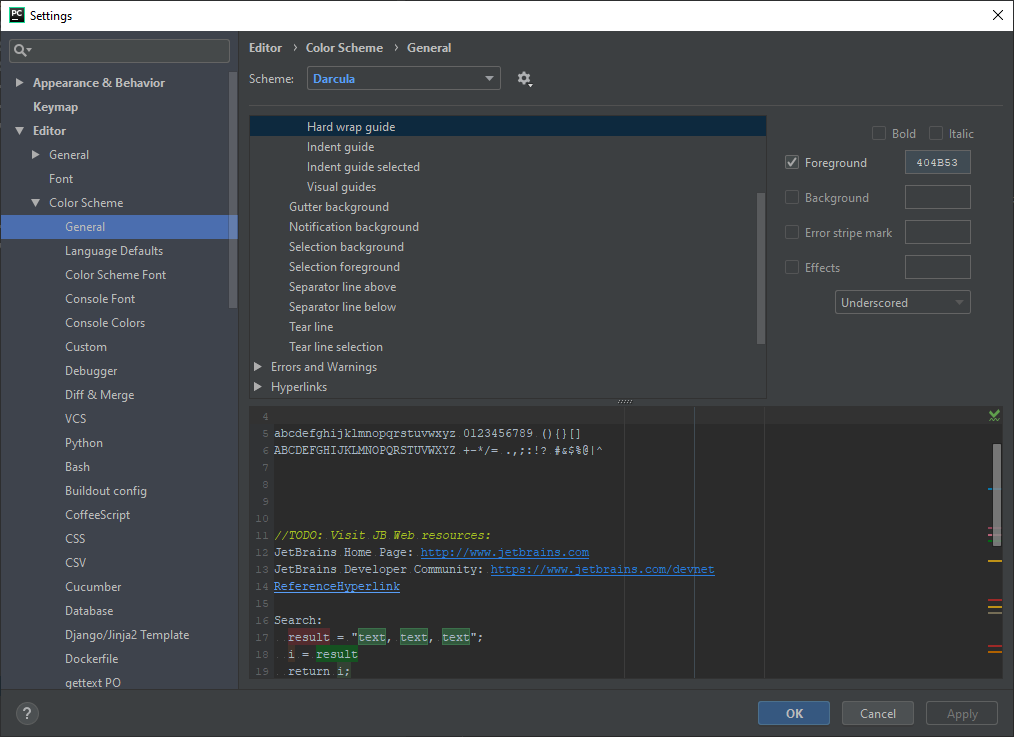
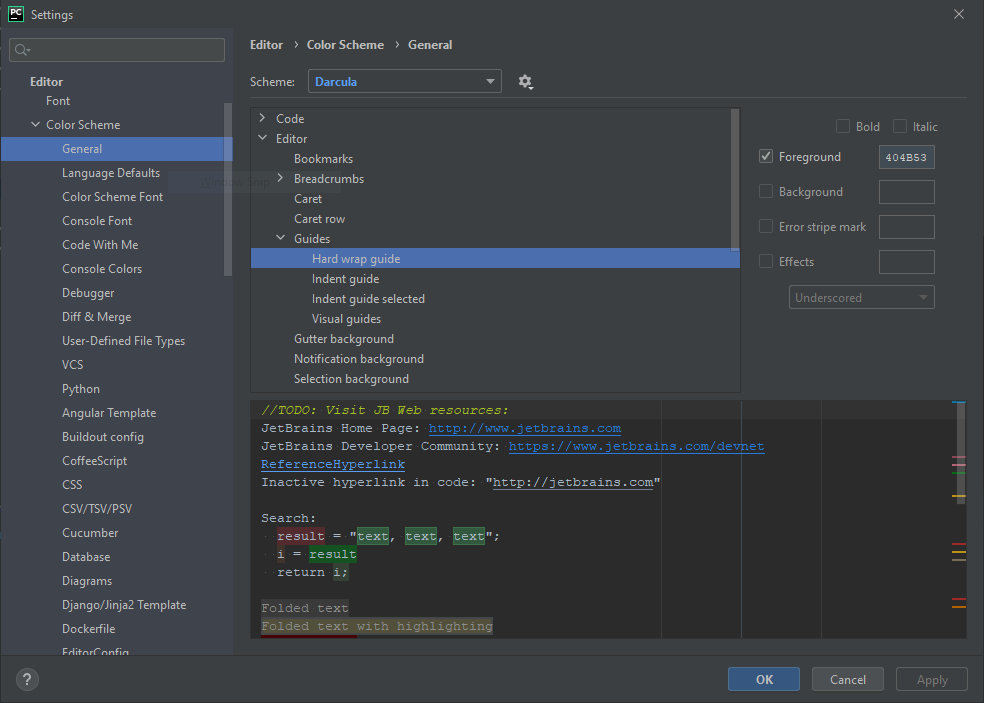
Updating PyCharm info for version 2021

diff --git a/Resources/PyCharm/NewProject.md b/Resources/PyCharm/NewProject.md
@@ -24,7 +24,7 @@ section below called __Git Workflow in PyCharm__.
 * Start a new project in PyCharm either from the splash window or from the 
 menu bar by choosing `File/New Project...`
 ![NewFolderWindow.png](images/NewFolderWindow.PNG)
-* In the Location box, replace "untitled" with the name of the folder you
+* In the Location box, replace "pythonProject" with the name of the folder you
 would like for the new project/repository to be placed.  You can also update
 the path as needed.  Make sure that "Pure Python" is selected in the left-hand
 pane.  Click "Create".
@@ -37,7 +37,7 @@ environment within this project.
 
 ### Create local `git` repository for this project
 * In the new project window, we need to activate `git`.  To do so, from the
-menu bar, choose `VCS/Import into Version Control/Create Git Repository...`  
+menu bar, choose `VCS/Create Git Repository...`  
 ![CreateGitRepositoryWindow.PNG](images/CreateGitRepositoryWindow.PNG)
 * The newly created project folder should already be selected.  Click "Ok".
 * The bottom right portion of the PyCharm window should now show that `git`
@@ -45,9 +45,13 @@ is active and that you are on the main branch.
 ![GitMasterStatus.png](images/GitMasterStatus.PNG)
 
 ### Link to a new GitHub repository
-* In GitHub, create a new empty repository without a `README.md` file.
-* Get the GitHub repository URL for cloning.
-* In the PyCharm window, from the menu bar, select `VCS/Git/Remotes...`
+* In GitHub, create a new empty repository without a `README.md` or any other 
+  file.
+* Copy the GitHub repository URL for cloning.  Make sure the SSH version is
+selected and that your computer already has an SSH key set up.
+  ![](images/GitHubEmptyRepositoryURL.PNG)
+  
+* In the PyCharm window, from the menu bar, select `Git/Manage Remotes...`
 ![GitRemotesWindow.png](images/GitRemotesWindow.PNG)
 * Click on the "+" in the "Git Remotes" windows.  
 ![DefineRemoteWindow.png](images/DefineRemoteWindow.PNG)
@@ -55,24 +59,32 @@ is active and that you are on the main branch.
 * Click "Ok" to close the "Git Remotes" window.
 
 ### Create files in PyCharm
-* Create files in PyCharm.  As an example, lets make a `requirements.txt` file.
+* Create files in PyCharm.  As an example, lets make a `README.md` file.
 * In the Projects tab on the left, select the project:    
 ![ProjectSelect.png](images/ProjectSelect.PNG)
-* From the menu bar, select "File/New..." and then select "File" from the 
-pop-up list.  Alternatively, you can right click on the project name in the
-project tab and then select "New/File" from the pop-up menu.
-* Enter the name of the file into the "New File" window that appears and click
-"Ok".
+* From the menu bar, select "File/New..." and then select the appropriate file
+  type from the pop-up list.  Alternatively, you can right click on the project
+  name in the project tab and then select "New" and the appropriate  file type 
+  from the pop-up menu.
+  - If you are creating a Python code module, select "Python File".
+  - Select other types if creating a specific type of file
+  - Select "File" for creating markdown or generic text files.
+* Enter the name of the file into the "New File" pop-up that appears and hit
+"Enter" on the keyboard.
+    - Include an appropriate file extensions (i.e., .txt, *.md) if you are
+  creating a generic file.
 * The following window will appear:  
 ![AddFileToGitWindow.png](images/AddFileToGitWindow.PNG)
-* Select "Yes" as we do want to add it to our repository.
-* __NOTE__:  There will be other times when you are using PyCharm and this
-window will pop-up:  ![](images/VcsCommitWindow.PNG) 
+* Select "Add" as we do want to add it to our repository.
+* __NOTE__:  There may be other times when you are using PyCharm and a window
+similar to this one will pop-up:  ![](images/VcsCommitWindow.PNG) 
   
-  asking if you want to commit certain files to your
+  It may have a different format and the buttons may be labeled "Add" and 
+  "Cancel".  This window is saying that some configurations files for PyCharm
+  have changed and whether you want to add these files to your
   repository.  Often, these files will be PyCharm settings files such as `vcs`
   or spelling dictionary files.  If you don't recognize the filename, it is 
-  best to say "No" and not add it to the repository.
+  best to say "No" or "Cancel" and not add it to the repository.
 * The newly added file will be shown in green.  This means it has been added
 to the repository, but not yet committed to it.  
 ![GreenFileName.png](images/GreenFileName.PNG)
@@ -80,7 +92,7 @@ to the repository, but not yet committed to it.
 to your local computer.  There is no need to actively save the file.
 ### Commit changes to repository
 * Once editing is complete, the file may be committed to the repository from
-the menu bar by selecting "VCS/Commit...".  
+the menu bar by selecting "Git/Commit...".  
 ![](images/CommitChangesWindow.PNG)
 The "Commit Changes" window will show all files that have been modified since
 the last commit and allow you to commit all of these changes at once.  For this
@@ -90,15 +102,14 @@ Commit Message box and then click "Commit".
 
 ### Push Changes to GitHub
 * To push your local repository changes to GitHub, from the menu bar, select
-"VCS/Git/Push..."  
+"Git/Push..."  
 ![PushCommitsWindow.png](images/PushCommitsWindow.PNG)
 * It will show a list of commits to be pushed.  Click on "Push".
 
 ## Method 2:  Creating New Local PyCharm Project from Existing GitHub Repository
 ### Clone Repository
-* In PyCharm, from the menu bar, choose "VCS/Checkout from Version Control/Git".
-Or, if starting from the splash screen, simply choose "Checkout from Version 
-Control/Git".
+* In PyCharm, from the menu bar, choose "Git/Clone...".
+Or, if starting from the splash screen, click on the "Get from VCS" button.
 ![CloneRepositoryWindow.png](images/CloneRepositoryWindow.PNG)
 * Enter the clone repository URL obtained from the target GitHub repository
 into the "URL" text box.  A suggested name and path for the local project 
@@ -138,9 +149,12 @@ repository for this project__ above.
 repository__ above.  It is very important that the new GitHub repository you 
 create is completely empty.  If you initialize it with a README.md, the push 
 of your local repository to GitHub will fail.
-* Next, in PyCharm, you will need to add the files you want to put into the repository.
+* Next, in PyCharm, you will need to add the files you want to put into the 
+  repository.
 Untracked files will be shown with red names.  Select a file that you want
-to add in the Projects tab and, from the menu bar, select "VCS/Git/Add".
+to add in the Projects tab and, from the menu bar, select 
+  "Git/Current File/Add".  Or, you can right click on the filename and select
+  "Git/Add" from the context menu.  
 * Do this for all of the files you wish to add to the repository.  Their 
 filenames should now be green.  
 * Commit the added files to the repository following the steps above under the
@@ -154,9 +168,21 @@ __Push Changes to GitHub__ in __Method 1__.
 ## Installing Packages in Virtual Environments in PyCharm
 ### Use `requirements.txt`
 * Create or clone a `requirements.txt` file into your project.
-* PyCharm should recognize the presence of this file and ask if you want to
-install any uninstalled packages found in `requirements.txt`.  
+* Open a terminal window in the bottom pane of PyCharm.
+  ![TerminalWindow.PNG](images/TerminalWindow.PNG)
+* Ensure that your virutal environment is active in this terminal window as
+  evidenced by the virtual environment name being shown in the prompt.  If
+  it is not activated, close this terminal window by clicking on the `x` next
+  to the "Local" tab name, and then opening a new terminal window.  
+* Enter "pip install -r requirements.txt" in the terminal command line.
+  
+#### Alternate Method (but see warning below about `pytest` not installing with this method)
+* When creating a code file, PyCharm should recognize the presence of the
+  requirements.txt file and ask if you want to
+install any uninstalled packages found in `requirements.txt` as shown in this
+  screenshot:
 ![PackageInstallPrompt.png](images/PackageInstallPrompt.PNG)
+
 * Click on "Install requirements" and then click on "Ok" in the window that
 opens.
 * If PyCharm does not automatically recognize the `requirements.txt` file,
@@ -165,6 +191,11 @@ Preferences for macOS) window and select "Python Integrated Tools" under the
 Tools heading in the left-hand pane.  
 ![SettingsPythonIntegTools.png](images/SettingsPythonIntegTools.PNG)
 *  Enter `requirements.txt` into the "Package requirements file" box.
+
+* __IMPORTANT NOTE__: Some of the more recent versions of PyCharm do not
+  install `pytest` or `pytest-pycodestyle` when using this method, even though
+  they are included in the `requirements.txt` file.  You would then need to
+  manually install them.
 
 ### Install Single Packages
 * Although not recommended, if you prefer to install a single package and not
@@ -181,8 +212,9 @@ Once your local PyCharm project and `git` repository are set up and linked to
 GitHub per the instructions above, here is the suggested `git` workflow in
 PyCharm.
 * In PyCharm, making sure that the `main` branch is active, make a new
-feature branch.  From the menu bar, select "VCS/Git/Branches..." and then
-select "+ New Branch" from the pop-up list.  
+  feature branch.  From the menu bar, select "Git/New Branch...", or click on 
+  the branch name in the lower right status bar of the PyCharm window and 
+  select "+ New Branch" from the pop-up list.  
 ![CreateNewBranchWindow.png](images/CreateNewBranchWindow.PNG)
 * Enter the name of your new branch and click "Ok".  It will now be shown as
 the active branch in the status bar in the lower right corner of the PyCharm
@@ -203,13 +235,15 @@ branch.
 * In GitHub, open a Pull Request to merge the newly pushed branch into the
 `main` branch and confirm the merge once all automated tests have passed.
 * Back in PyCharm, checkout the `main` branch by selecting 
-"VCS/Git/Branches..." from the menu bar, and then select `main` from the 
-pop-up list and "Checkout" from the sublist that opens.  Verify that `main`
+"Git/Branches..." from the menu bar, and then select `main` from the 
+pop-up list and "Checkout" from the sublist that opens.  Or, click on the
+  branch name in the lower right status bar of the PyCharm window to access the
+  same pop-up list.  Verify that `main`
 is shown as the active branch in the status bar on the bottom right.  Note that
 any changes you made on the feature branch are no longer visible as they have
 been merged onto the `main` branch on GitHub, but not locally.
 * In order to get the updates to the GitHub `main` branch, we need to pull 
-in the most recent `main` branch from GitHub by selecting "VCS/Git/Pull..."
+in the most recent `main` branch from GitHub by selecting "Git/Pull..."
 from the menu bar.  
 ![PullChangesWindow.png](images/PullChangesWindow.PNG)
 * Make sure that `origin/main` is selected as the Branch to Merge, and then

diff --git a/Resources/PyCharm/PycharmSettings.md b/Resources/PyCharm/PycharmSettings.md
@@ -37,9 +37,10 @@ gives some errors.
 ### Line length guide
 * A line in the editor can be shown that indicates the line length maximum.
 * To turn on and off, go to "Editor /Color Scheme / General" (see below).  
-Select "Hard wrap guide" in the right hand portion.  Turn "Foreground" on or 
-off.  When turning on, you can vary the color/intensity of the line by clicking 
-on the number code next to Foreground.
+In the right hand portion, select "Hard wrap guide" under "Editor / Guides".  
+  Turn "Foreground" on or off.  When turning on, you can vary the 
+  color/intensity of the line by clicking on the number code next to 
+  Foreground.
 ![](images/SettingsEditorColorSchemeGeneral.PNG)
   
 ### Editor / Code Style

diff --git a/Resources/PyCharm/DocumentationLinks.md b/Resources/PyCharm/DocumentationLinks.md
@@ -1,6 +1,6 @@
+PyCharm Documentation:  
+<https://www.jetbrains.com/help/pycharm/>
+
+Learn PyCharm Resources:  
 <https://www.jetbrains.com/pycharm/documentation/>
 
-Using PyCharm with Flask:  <https://www.jetbrains.com/help/pycharm/creating-flask-project.html>
-Note, running a Flask server following these steps may not execute code found
-in the `if __name__ == "__main__":` block.  So, be careful if using these
-steps.

diff --git a/Resources/PyCharm/readme.MD b/Resources/PyCharm/readme.MD
@@ -32,3 +32,7 @@ Sakai
   + Cloning a GitHub Repository to Local Computer
   + Git Workflow in PyCharm 
   + Using PyTest in PyCharm
+  + These videos were made with PyCharm v 2018.2.  Some things are slightly 
+    different with the more recent versions.  Refer to the details in
+    [NewProject.md](NewProject.md) for updates when things are different.
+    
